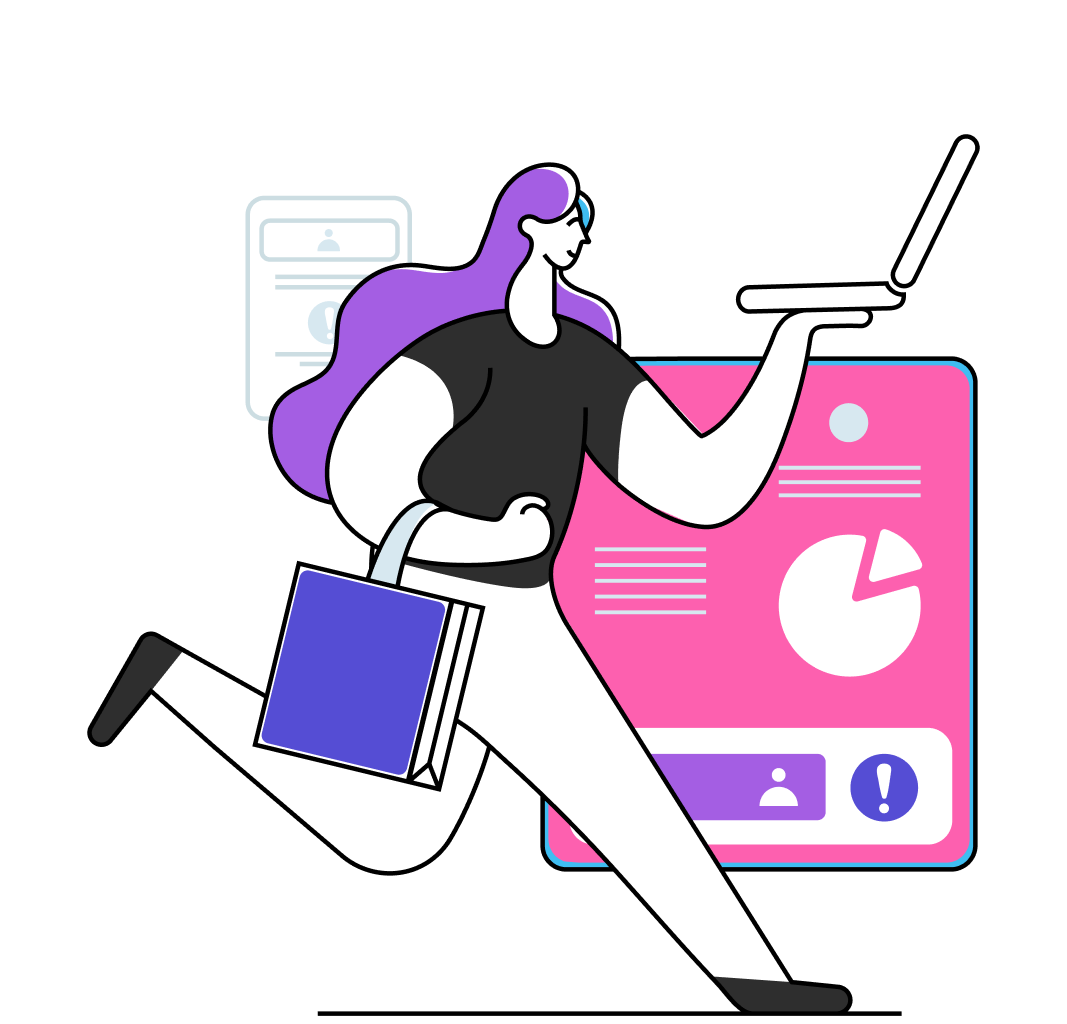
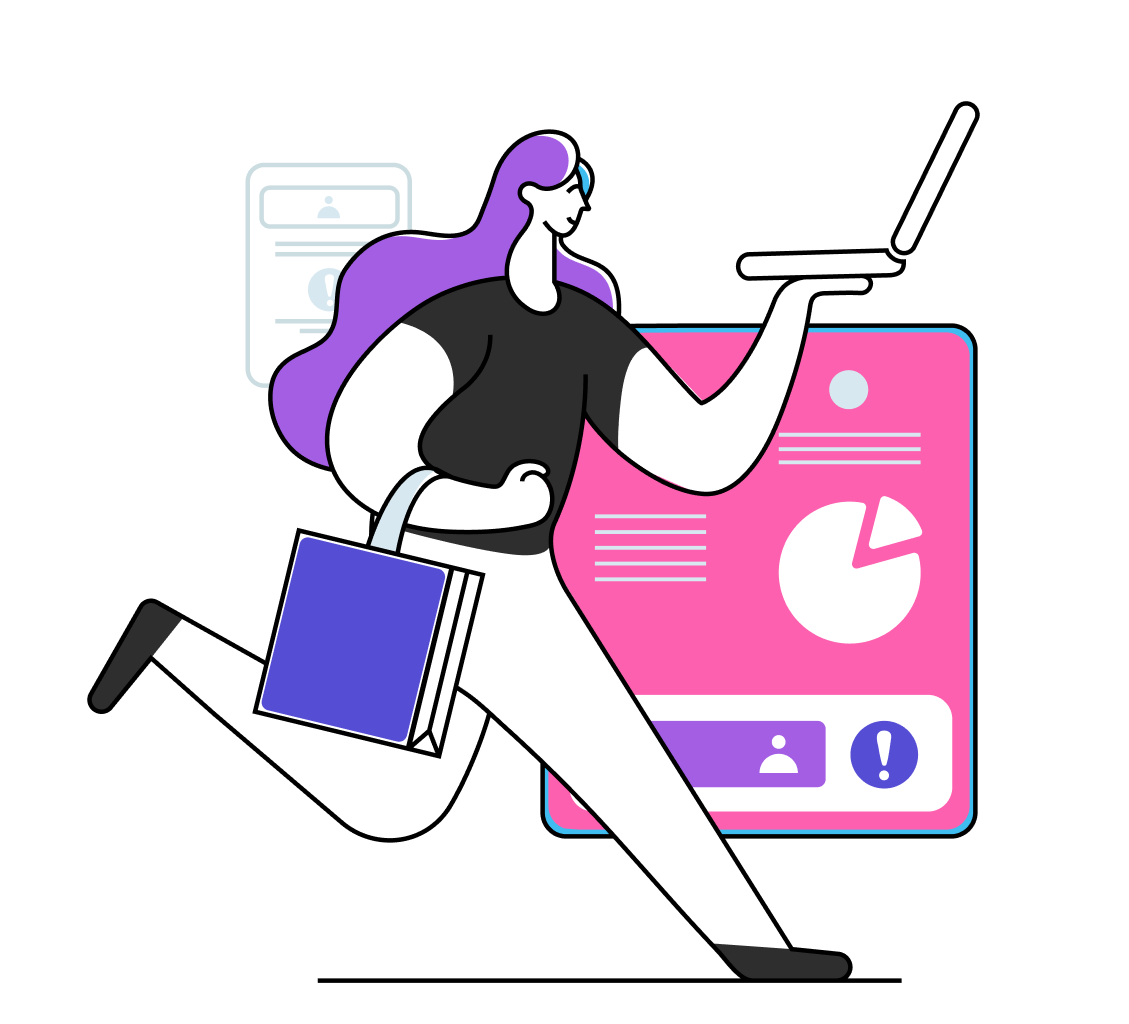
Ajustado vetor e cadastro

Changed region(s): [[0.0619, 0.0938, 0.9278, 1.0], [0.4021, 0.8125, 0.433, 0.8438]]

diff --git a/Site Institucional/public/cadastro.html b/Site Institucional/public/cadastro.html
@@ -22,16 +22,14 @@
     <h3>Cadastre-se</h3>
     <label for="in_email">Email</label>
     <input  maxlength="30" id="in_email" type="text" placeholder="Email">
-    <label for="in_nome">Nome</label>
-    <input maxlength="30" id="in_nome" type="text" placeholder="Nome Empresa">
     <label for="in_cnpj">CNPJ</label>
     <input maxlength="10" id="in_cnpj" placeholder="CNPJ">
     <label for="in_senha">Senha</label>
     <input maxlength="8" id="in_senha" type="password" placeholder="Senha">
     <label for="in_senha_confirm">Confirme a senha</label>
     <input maxlength="8" id="in_senha_confirm" type="password" placeholder="Confirme a senha">
-    <button style="color: black;" onclick="cadastrar()" id="bota_cad">Cadastrar</button>
-    <a href="./index.html">Voltar ao inicio</a>
+    <button  style="color: black; margin-bottom: 7%;" onclick="cadastrar()" id="bota_cad">Cadastrar</button>
+    <a style="margin-left: 30%;"href="./index.html">Voltar ao inicio</a>
 </div>
 <div id="div_aguardar" class="loading-div">
     <img style="height: 30px;"

diff --git a/Site Institucional/public/css/style.css b/Site Institucional/public/css/style.css
@@ -21,6 +21,22 @@
     font-family: 'Clarika';
     src: url(./Wild\ Edge\ -\ Clarika\ Pro\ GeoDEMO\ Heavy.otf);
 }
+::-webkit-scrollbar {
+    background-color: #FD60AF;
+    width: 8px;
+  }
+  
+  /* Track */
+  ::-webkit-scrollbar-track {
+    border-radius: 10px;
+  }
+   
+  /* Handle */
+  ::-webkit-scrollbar-thumb {
+    background: #A45EE3; 
+    border-radius: 10px;
+  }
+  
 h1{
     font-family: poppins, bold;
 }

diff --git a/Site Institucional/public/css/cadastro.css b/Site Institucional/public/css/cadastro.css
@@ -16,7 +16,7 @@
      
      /* Sombra */
 /*
-     --shadow: box-shadow: 2px 2px 2px rgba(0, 0, 0, 0.37);
+     box-shadow: 2px 2px 2px rgba(0, 0, 0, 0.37);
 */
   }
 *{
